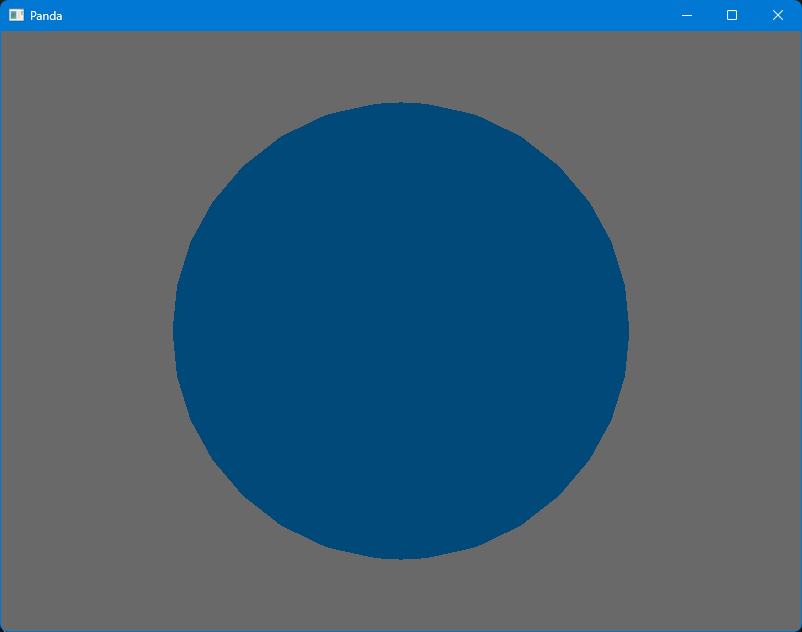
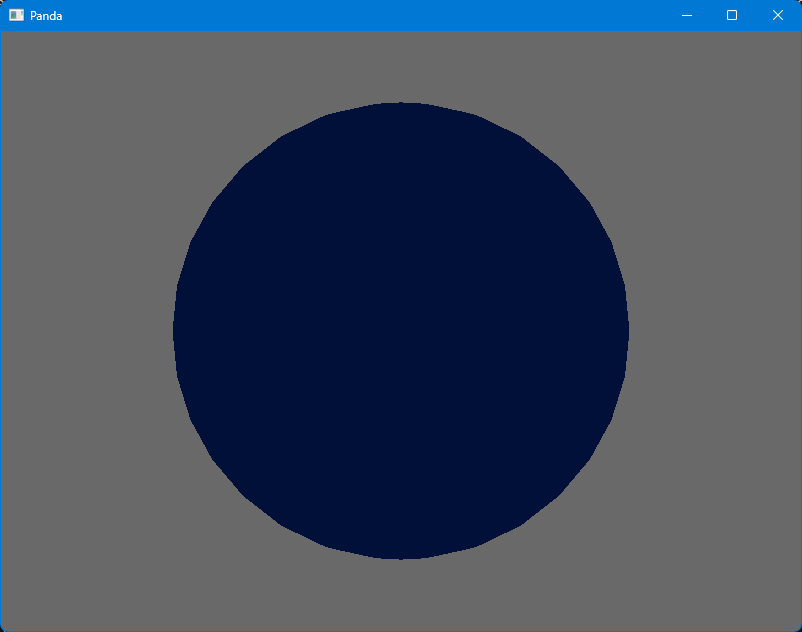
Fix ambient lighting and add linear color conversion to PBR lesson 3.

diff --git a/pbr/03-ambient_lighting/main.py b/pbr/03-ambient_lighting/main.py
@@ -2,6 +2,7 @@ from direct.showbase.ShowBase import ShowBase
 from panda3d.core import (
     AmbientLight,
     DirectionalLight,
+    load_prc_file,
     PointLight,
     Shader,
     Vec3,
@@ -13,6 +14,9 @@ from panda3d.core import (
 # =================
 class ShaderDemo(ShowBase):
     def __init__(self):
+        # Load config file
+        load_prc_file("settings.prc")
+
         # Call the base constructor
         ShowBase.__init__(self)
 
@@ -25,7 +29,7 @@ class ShaderDemo(ShowBase):
 
         # Setup lighting
         self.ambient_light = self.render.attach_new_node(AmbientLight("AmbientLight"))
-        self.ambient_light.node().set_color(Vec4(.2, .2, .2, 1))
+        self.ambient_light.node().set_color(Vec4(.04, .04, .04, 1))
         self.render.set_light(self.ambient_light)
 
         self.sun = self.render.attach_new_node(DirectionalLight("Sun"))

diff --git a/pbr/03-ambient_lighting/README.md b/pbr/03-ambient_lighting/README.md
@@ -31,18 +31,52 @@ vec4 applyLighting(vec4 albedo) {
 }
 ```
 
-This function caclulates the product of the ambient light color, the base color (aka. albedo), and the material refractive index. Then it assigns it to a `color` variable which will later be replaced with a different formula. Next it applies tone mapping and gamma correction. This step is necessary because PBR shaders perform calculations in linear space. We also need to modify our `main` function to use our new lighting function:
+This function calculates the product of the ambient light color, the base color (aka. albedo), and the material refractive index. Then it assigns it to a `color` variable which will later be replaced with a different formula. Next it applies tone mapping and gamma correction. This step is necessary because PBR shaders perform calculations in linear space. Since PBR lighting calculations require colors to be in linear space, we will also need a function that converts from sRGB to linear color space:
+```glsl
+vec4 srgbToLinear(vec4 color) {
+    return vec4(pow(color.rgb, vec3(2.2)), color.a);
+}
+```
+
+We also need to modify our `main` function to convert the base color to linear color space and use our new lighting function:
 ```glsl
 void main() {
     // Calculate base color
     vec4 baseColor = vec4(0.0, .225, .8, 1.0);
+    baseColor = srgbToLinear(baseColor);
 
     // Calculate final color
     p3d_FragColor = applyLighting(baseColor);
 }
 ```
 
-If you run your code at this point, you will see that our sphere is now darker:
+If you run your code at this point, you will see that our sphere is now quite dark:
 ![ambient sphere](https://github.com/Cybermals/panda3d-shader-tutorials/blob/main/pbr/03-ambient_lighting/screenshots/01-ambient_sphere.png?raw=true)
 
-This may seem counter-productive at first. After all, why would light darken the scene? The reason why this happened is because we haven't yet implemented any other types of lighting yet.
+In order to get the correct appearance we also need to set the framebuffer to sRGB mode. Create a `settings.prc` file with the following content:
+```
+framebuffer-srgb 1
+```
+
+Then modify your imports like this:
+```python
+from direct.showbase.ShowBase import ShowBase
+from panda3d.core import (
+    AmbientLight,
+    DirectionalLight,
+    load_prc_file,
+    PointLight,
+    Shader,
+    Vec3,
+    Vec4
+)
+```
+
+And add this code at the top of the `__init__` method of your `ShowBase` class above where you call the base constructor:
+```python
+# Load config file
+load_prc_file("settings.prc")
+```
+
+Now the sphere should look like this:
+srgb framebuffer
